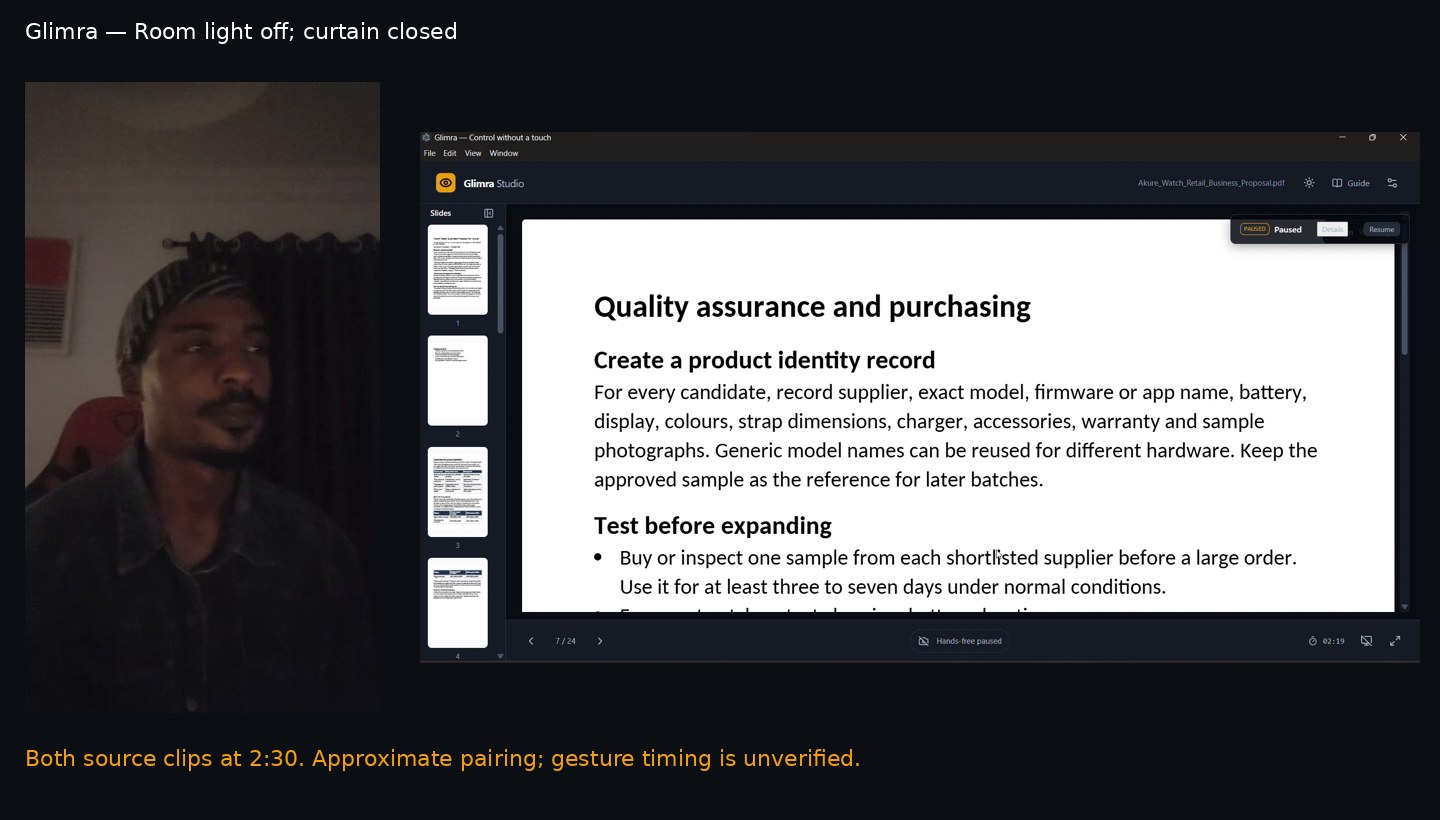
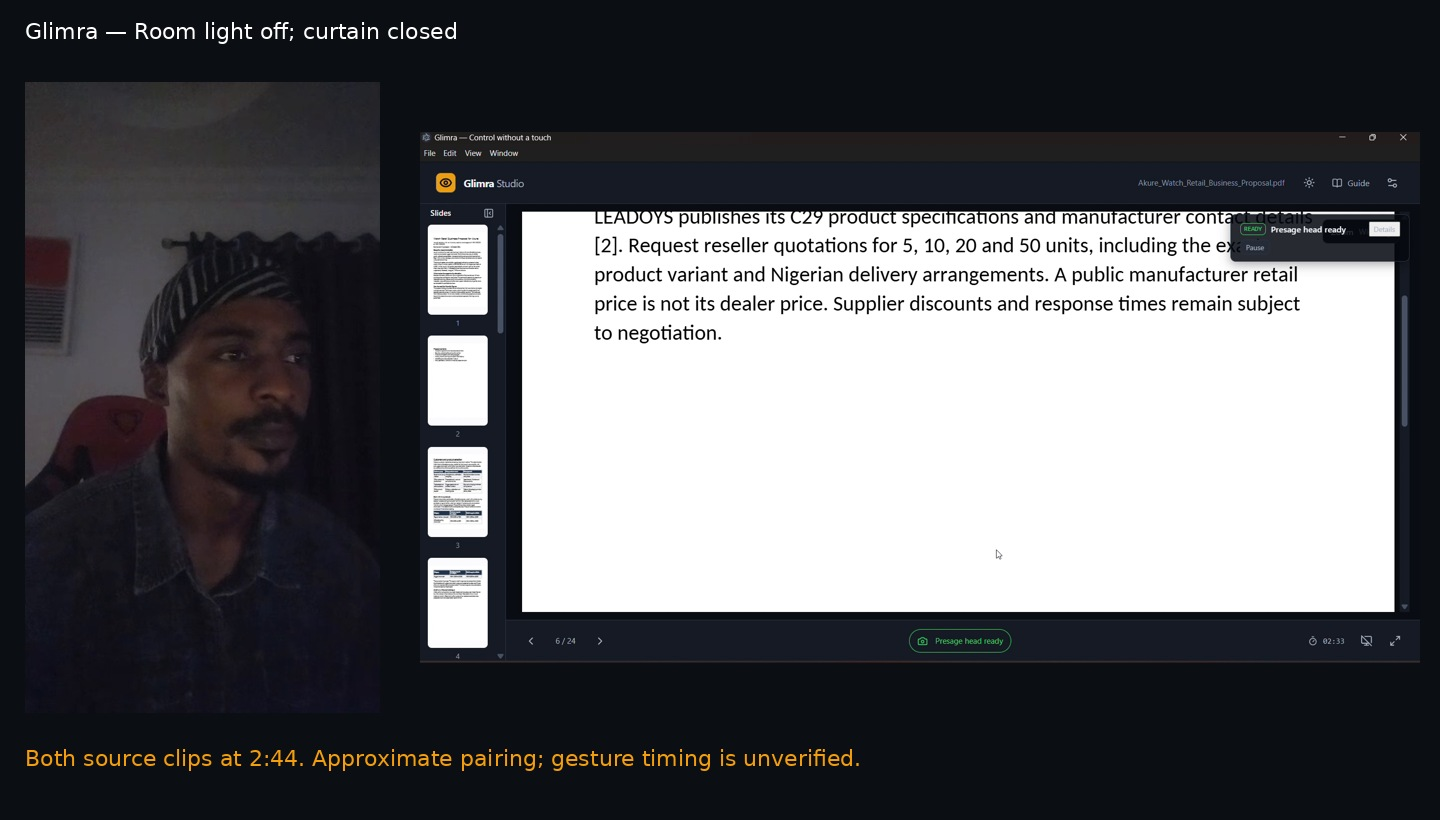
docs: select clearer low-light evidence frame

diff --git a/docs/LIGHTING_TEST_2026-11-20.md b/docs/LIGHTING_TEST_2026-11-20.md
@@ -10,7 +10,7 @@ The presenter supplied two recordings of one session: a 287.90-second portrait p
 | 1:15–2:10 | Room light off, curtain open | Face remains visible in daylight. Presenter reports that controls continued to work. |
 | 2:15–2:55 | Room light off, curtain closed | Face is much darker. Presenter reports continued control with less sharp or consistent responses. PDF content changes during this part of the desktop recording. |
 
-The desktop frame at 2:30 displays **Paused**. The still cannot establish why it paused, whether pause was manual, or when active tracking returned. Treat continuous low-light tracking as unverified.
+The earlier desktop frame at 2:30 displayed **Paused**. The replacement frame at 2:44 displays **Presage head ready**. The still cannot establish why it paused, whether pause was manual, or when active tracking returned. Treat continuous low-light tracking as unverified.
 
 These ranges identify candidate excerpts, rather than exact lighting-switch timestamps. Some intervals include the presenter leaving the chair or changing the environment.
 
@@ -22,7 +22,7 @@ Each image places the phone view beside a desktop frame at the same nominal sour
 
 ![Daylight condition, both sources at 1:35](evidence/2026-11-20/daylight.jpg)
 
-![Low-light condition, both sources at 2:30](evidence/2026-11-20/low-light.jpg)
+![Low-light condition, both sources at 2:44](evidence/2026-11-20/low-light.jpg)
 
 ## Limits
 
